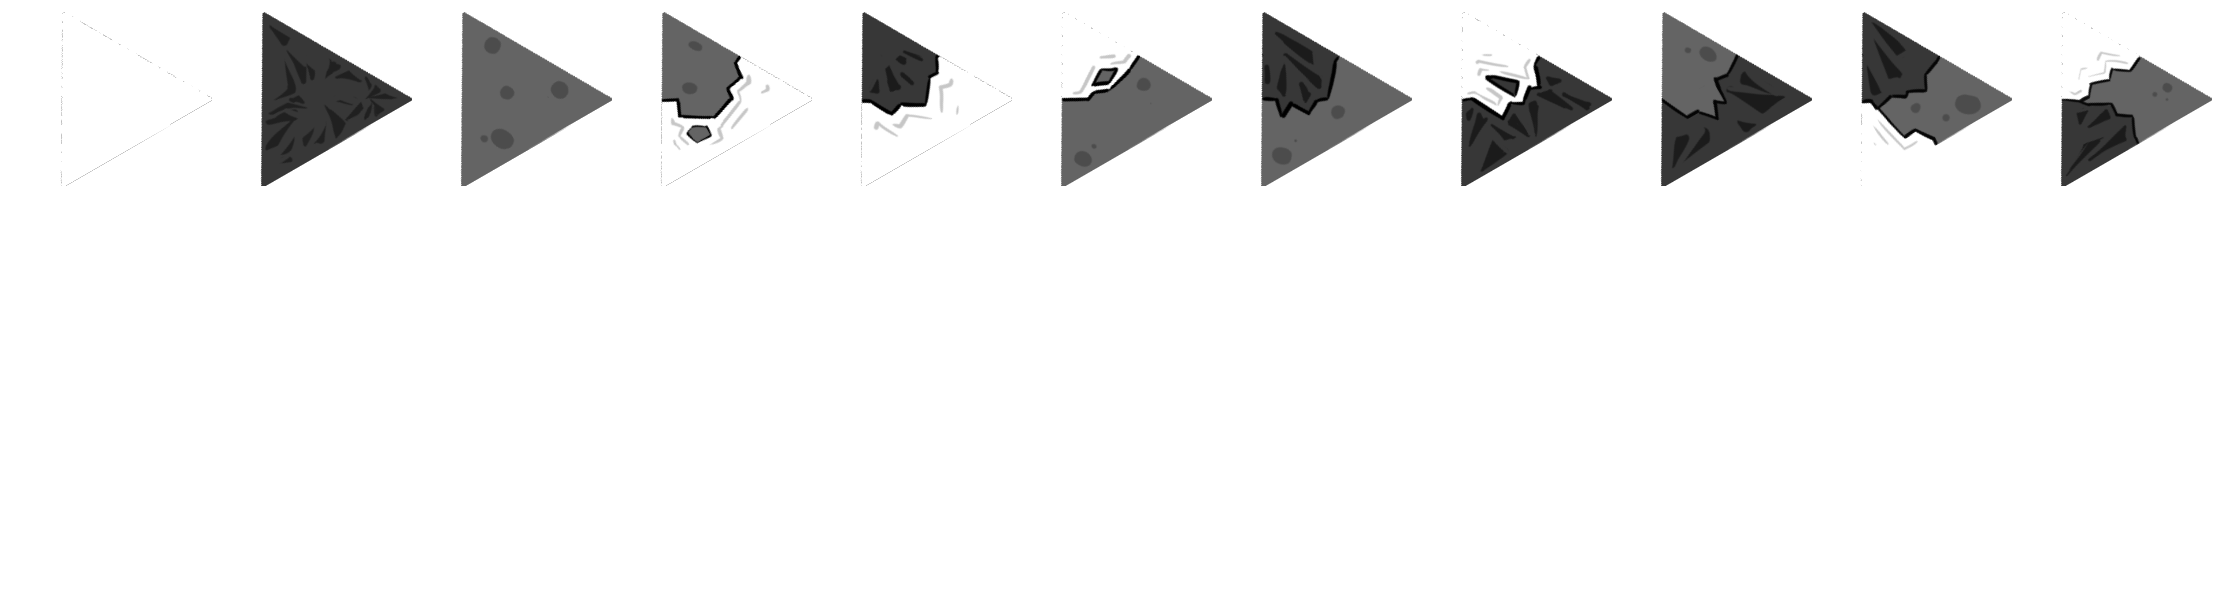
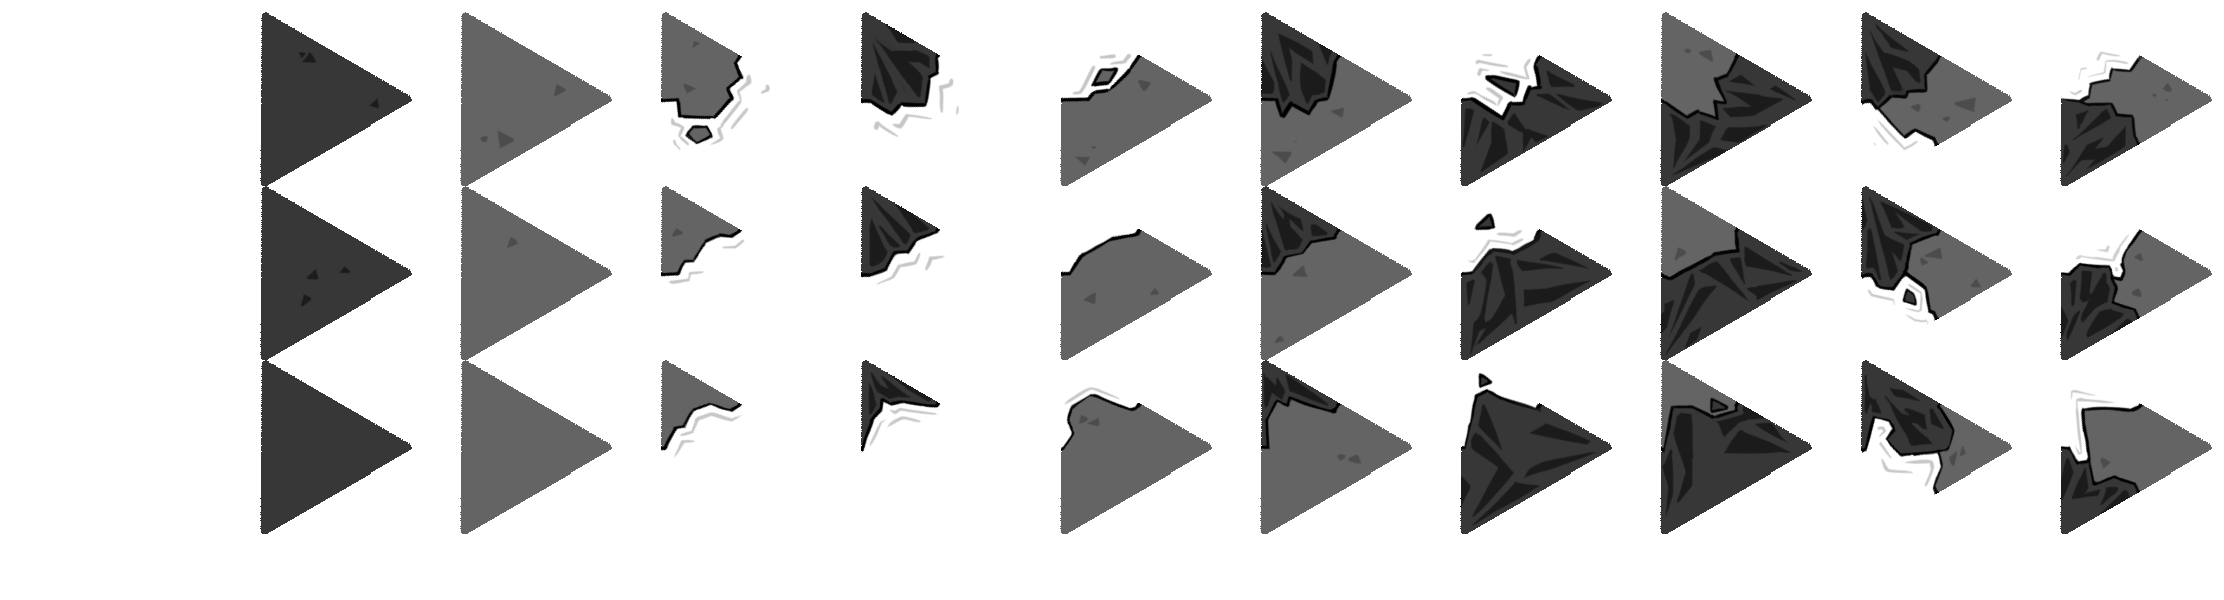
better tilemap for the world

diff --git a/external_scripts/convert_image_atlas.py b/external_scripts/convert_image_atlas.py
@@ -20,14 +20,23 @@ image_size = np.array([174,200])
 new_image = np.zeros_like(image)
 
 for angle in range(6):
-    for j in range(1):
+    for j in range(3):
         for i in range(11):
             offset = np.array([j,i])
             image_start = margin+offset*image_size
             subimage = image[image_start[0]:image_start[0]+image_size[0],image_start[1]:image_start[1]+image_size[1]]
             subimage = rotate_image(subimage,angle*60)
+            for a in range(len(subimage)):
+                row = subimage[a]
+                for b in range(len(row)):
+                    pixel = row[b]
+                    if subimage[a][b][1] > 0:
+                        pass
+                    if pixel[3] < 255:
+                        subimage[a][b][3] = 0
+                        
             new_image[image_start[0]:image_start[0]+image_size[0],image_start[1]:image_start[1]+image_size[1]] = subimage
             
-    plt.imshow(new_image)
-    plt.show()
+    # plt.imshow(new_image)
+    # plt.show()
     cv2.imwrite(base_path + atlas_name + f"{angle}.png",new_image)
